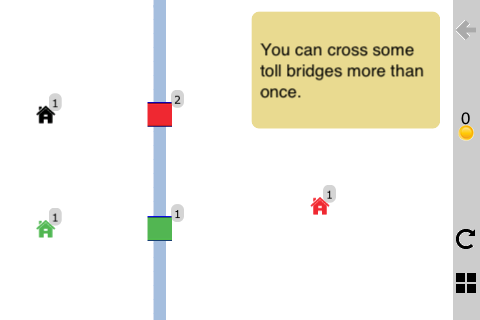
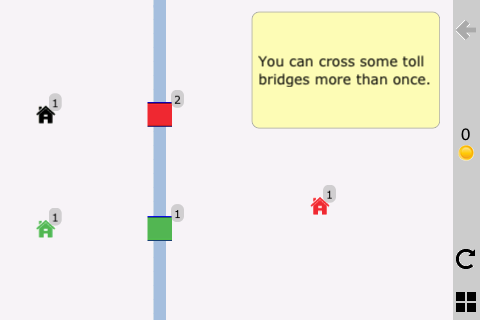
Updated all of the screenshots on the main page and added one more of the first screen.

Changed region(s): [[0.5, 0.0312, 1.0, 0.5], [0.9375, 0.7188, 1.0, 1.0]]

diff --git a/README.md b/README.md
@@ -7,6 +7,11 @@ The city of Königsberg in Prussia (now [Kaliningrad, Russia](https://maps.googl
 
 This project is an iPad and iPhone game based on those famous bridges.  Each level presents a puzzle with bridges to cross, houses to visit, and sometimes coins to collect.  Take a look at the [original design](http://www.zackgrossbart.com/extras/bridges) for an idea how to play and some sample levels
 
+Level 1: Hello Bridges
+--------------------------------------
+
+![Hello Bridges Level](/zgrossbart/bridges/raw/master/screenshots/hellobridges.png)
+
 Level 8: Economics
 --------------------------------------
 
